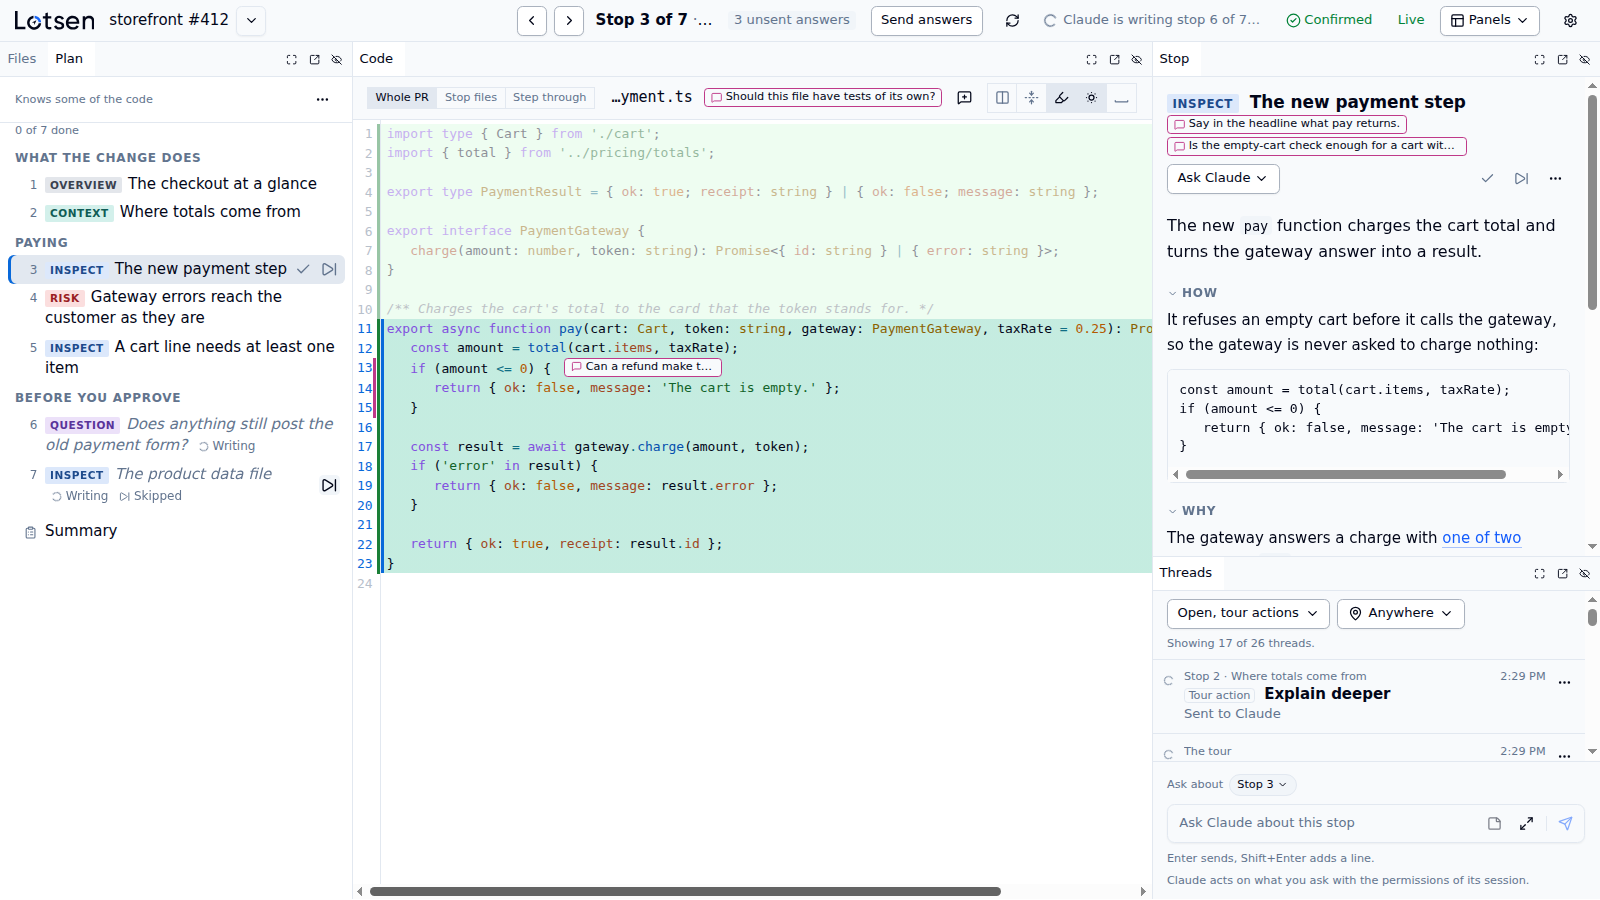
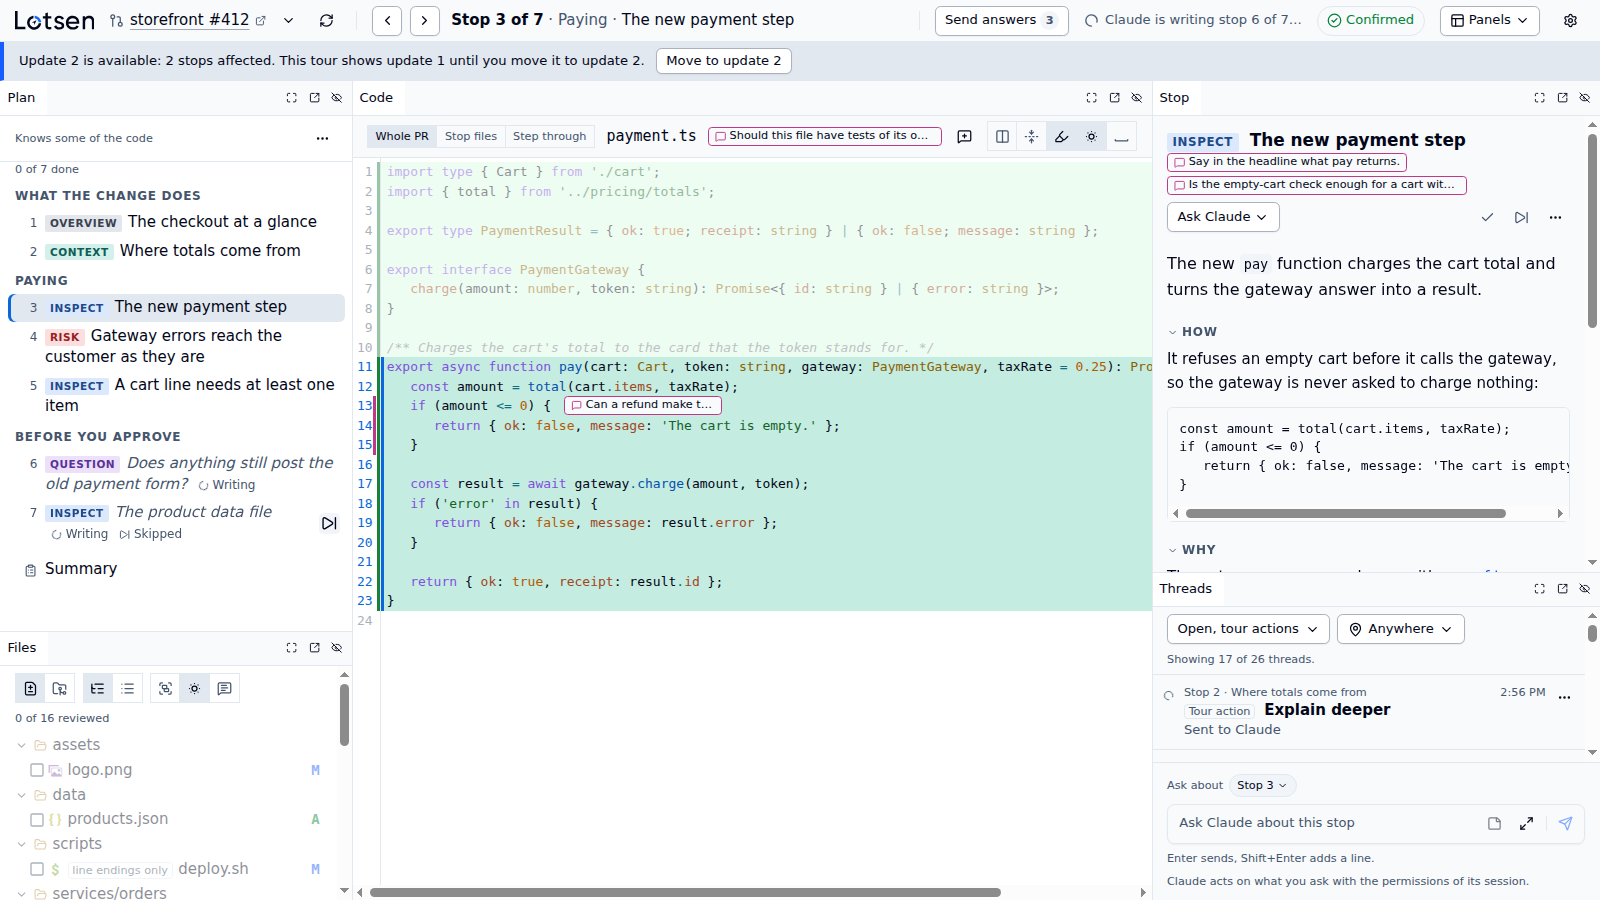
Release lotsen 0.3.0
Move the unreleased changes into the v0.3.0 section of the changelog and start lotsen@0.3.0 from the plugin. Retake the README's screenshots on the overhauled top bar, with the Files panel docked under the Plan panel.

Correct the docs that a pre-release audit found out of step with the code: git 2.46 in the README's requirements, a version-free npx example, the full third-party notices list, the release's tag order and the 1.0 milestone in the versioning doc, the three missing tools in the live test, and which tool calls need the pin and when threadDeleted arrives in the tour skill.

diff --git a/CHANGELOG.md b/CHANGELOG.md
@@ -4,6 +4,8 @@ The notable changes in each release of lotsen, newest first. Versions follow [se
 
 ## Unreleased
 
+## v0.3.0 - 2026-11-15
+
 ### Added
 
 - **Tours of GitHub pull requests.** Start a tour from any github.com URL of a pull request, such as its changed files. lotsen reads the pull request with your GitHub CLI sign-in, which `gh auth login` sets, also for a public repository. When the pull request's head changes, lotsen offers the new iteration, numbering the heads it sees from 1. lotsen shows a merged pull request as completed and a closed one as abandoned, and links mentions of issues and pull requests to GitHub. GitHub Enterprise Server and GHE.com are not supported.
@@ -16,7 +18,8 @@ The notable changes in each release of lotsen, newest first. Versions follow [se
 - **A tidier Settings panel.** The settings sit under Appearance, Tour, Threads and Storage. Color theme and Syntax colors are dropdowns that show each family's colors, Placement and Thread messages show a small picture of each choice, and a preview shows the chosen colors and font size on a few diff lines. Mixed threshold shows only while Placement is Mixed, and the panel's footer shows the lotsen version.
 - **A diff line with thread markers is as tall as any other line**, so its code sits level with its line number.
 - **A stop's checks are easier to read.** Each check sits in its own card under its question in bold, with a pill that says whether it needs an answer or how far its answer has come, and the Checks heading counts the answered checks. Claude's recommendation shows in Claude's colors, and folds once you answer the check. Fewer labels stand between the question and the suggestions, and the answer type menu is as large as the buttons beside it.
-- **The top bar's controls share one height and one look for each kind.** The tour switcher's chevron has no border, the Claude session state is a pill, and the pull request label shows its link with an underline and an external-link mark. Thin dividers split the bar into the tour, the stop, and Claude and the workspace. The tour takes only the width it needs, so the stop line shows more of the stop's title, and the update check sits beside the pull request label. When the stop line runs short of room, the chapter gives way before the stop's title, and "Skipped" stays. "Send answers" shows the unsent count inside the button, and a refused send shows its reason in a strip under the bar until you dismiss it. One status chip shows the Claude session, turns amber while the page connects or reconnects, and lists the session, the connection and Claude's current work on a click, so the bar no longer shows "Live" or "No Claude session is writing this tour". While a plan waits for your approval, the bar shows a "Review the plan" button that opens the Plan panel and moves the focus to "Approve plan". In a narrow window the bar gives way in a fixed order, down to 720px at every font size, so its controls stay in the window.
+- **The top bar's controls share one height and one look for each kind.** The tour switcher's chevron has no border, the Claude session state is a pill, and the pull request label shows its link with an underline and an external-link mark. Thin dividers split the bar into the tour, the stop, and Claude and the workspace. The tour takes only the width it needs, so the stop line shows more of the stop's title, and the update check sits beside the pull request label. When the stop line runs short of room, the chapter gives way before the stop's title, and "Skipped" stays. "Send answers" shows the unsent count inside the button, and a refused send shows its reason in a strip under the bar until you dismiss it. One status chip shows the Claude session, turns amber while the page connects or reconnects, and lists the session, the connection and Claude's current work on a click, so the bar no longer shows "Live" or "No Claude session is writing this tour". While a plan waits for your approval, the bar shows a "Review the plan" button that opens the Plan panel, brings a popped-out Plan panel's window forward where the browser allows it, and moves the focus to "Approve plan". In a narrow window the bar gives way in a fixed order, down to 720px at every font size, so its controls stay in the window.
+- **The keyboard focus is easier to see in the light theme.** A focused button's edge takes the primary color, so it stands out against every surface a button sits on, in every color theme.
 - **Gray text in the light theme is darker**, so small labels such as a thread's "Resolved" read clearly on their gray fill.
 - **Stops and diffs load faster, most of all on Windows, where each git process is slow.** lotsen keeps what git told it about a tour's commits in its git fact cache, so a stop that Claude writes again, a diff you open again and the list of changed files after pinning start no git process. The first stop that Claude writes on a pin starts fewer of them too.
 

diff --git a/README.md b/README.md
@@ -31,7 +31,7 @@ Everything stays on your machine. The UI runs on 127.0.0.1, Lotsen keeps its own
 ## Requirements
 
 - [Claude Code](https://code.claude.com/docs/en/overview), allowed to use channels. On a Team or Enterprise plan, your organization has to enable them with `channelsEnabled`.
-- git.
+- git 2.46 or newer.
 - [Node.js](https://nodejs.org/) 18 or later, with npm. Claude Code starts Lotsen through npx.
 - For Azure DevOps, the [Azure CLI](https://learn.microsoft.com/cli/azure/install-azure-cli), signed in with `az login` to an account that can read the pull request's repository.
 - For GitHub, the [GitHub CLI](https://cli.github.com/), signed in with `gh auth login` to an account that can read the pull request's repository. Lotsen needs the sign-in for a public repository too.
@@ -82,7 +82,7 @@ On GitHub, any page of the pull request works as its URL, such as its changed fi
 
 ## Commands
 
-Claude Code starts a background server when a session needs one, and it stops by itself once nothing uses it. These commands are for the times you want to step in. They need the global install from [Install](#install). Without it, run a command through npx with the plugin's version, such as `npx -y lotsen@0.2.0 open`, the form that Lotsen's errors in Claude Code name.
+Claude Code starts a background server when a session needs one, and it stops by itself once nothing uses it. These commands are for the times you want to step in. They need the global install from [Install](#install). Without it, run a command through npx with the plugin's version, such as `npx -y lotsen@<version> open`, with the version that Lotsen's errors in Claude Code name.
 
 | Command | What it does |
 |---|---|
@@ -126,6 +126,6 @@ Bug reports, ideas and pull requests are welcome: [`CONTRIBUTING.md`](CONTRIBUTI
 
 ## License
 
-Lotsen is licensed under the [Apache License, Version 2.0](LICENSE). The third-party notices are built into the executable, and Settings in the web UI links to them. The UI build writes them from the packages that it bundles, the Seti notices in [`ui/src/seti/`](ui/src/seti) and [`ui/third-party/notices.txt`](ui/third-party/notices.txt), which covers the .NET runtime and the NuGet packages.
+Lotsen is licensed under the [Apache License, Version 2.0](LICENSE). The third-party notices are built into the executable, and Settings in the web UI links to them. The UI build writes them from the packages that it bundles, the Seti notices in [`ui/src/seti/`](ui/src/seti) and [`ui/third-party/notices.txt`](ui/third-party/notices.txt), which covers the copied shadcn-svelte components, the Catppuccin and Gruvbox colors, the NuGet packages and the .NET runtime.
 
 Releases follow semantic versioning, as [`docs/versioning.md`](docs/versioning.md) describes, and [`CHANGELOG.md`](CHANGELOG.md) lists what each one changed. `docs/versioning.md` also shows how to check that a downloaded executable came from the release workflow.

diff --git a/docs/versioning.md b/docs/versioning.md
@@ -1,10 +1,10 @@
 # Versioning
 
-Lotsen uses [semantic versioning](https://semver.org/). The version stays below 1.0 until the public release.
+Lotsen uses [semantic versioning](https://semver.org/). The version stays below 1.0 until the 1.0 release.
 
 ## Where the version comes from
 
-A release is a git tag, `v<version>`, and npm packages of the version without its `v`. The release workflow takes the version as an input and builds with it. It publishes the npm packages once both builds pass and the maintainer approves the release, and creates the tag last, so a failed build or a rejected release leaves no tag.
+A release is a git tag, `v<version>`, and npm packages of the version without its `v`. The release workflow takes the version as an input and builds with it. It publishes the npm packages once both builds pass and the maintainer approves the release, and creates the tag only after the npm packages are published, so a failed build or a rejected release leaves no tag.
 
 The plugin starts lotsen through npx at an exact version, which `plugin/.mcp.json` names, such as `lotsen@0.1.0`. Before a release, commit the new version there. For a release without a suffix, also move the entries under `## Unreleased` in [`CHANGELOG.md`](../CHANGELOG.md) into a section `## v0.1.0 - <date>`, which becomes the GitHub release's notes. Push both to `main`. Then start the release from `main`, once CI has passed on that commit:
 
@@ -50,6 +50,6 @@ A change is breaking if it changes one of these in a way that existing users or 
 - The command line
 - The agent tools
 
-Before the MVP release, nothing is compatible by promise: stored tours, the state file and the HTTP API can change freely, with no migration.
+Before 1.0, nothing is compatible by promise: stored tours, the state file and the HTTP API can change freely, with no migration.
 
 From then on, a breaking change raises the minor version while the version is below 1.0, and the major version after that.

diff --git a/plugin/skills/tour/SKILL.md b/plugin/skills/tour/SKILL.md
@@ -98,7 +98,8 @@ Create a tour when `find_tours` returned no tours of the PR, or when the user ch
 
 The new tour's `pin.state` is `pinning`: lotsen reads the PR and clones its repository in the background, to pin the
 tour to the PR's merge base and head. A first clone of a large repository can take minutes. Don't wait for it. Go on
-gathering and planning; `set_plan` works in every pin state. Only `put_stop` needs the pin.
+gathering and planning; `set_plan` works in every pin state. `put_stop`, `write_synthesis` and any text with `ref:`
+links need the pin.
 
 ### Resume a tour in a new session
 
@@ -604,8 +605,8 @@ which the server checks. These tools never reach the reviewer's notes, which `re
 
 ### Threads that the reviewer deletes
 
-The reviewer can delete any thread in the UI, yours included. When the deleted thread was sent to you, lotsen sends
-this session one channel event with `event="threadDeleted"`, its `tourId` and `threadId`, and a `questionId` when a
+The reviewer can delete any thread in the UI, yours included. When the deleted thread is not an unsent note and this
+session holds the tour, lotsen sends this session one channel event with `event="threadDeleted"`, its `tourId` and `threadId`, and a `questionId` when a
 question in the thread still waited for your reply. lotsen canceled that question, so don't call `reply` for that
 question. Stop any work on the thread, and don't write to it again, because lotsen refuses every call on it. When the
 thread held a tour action or a decision that you carried out in part, leave the tour as it is, and tell the user in

diff --git a/docs/live-test.md b/docs/live-test.md
@@ -144,7 +144,7 @@ Check before you go on:
 - The startup screen says that messages from `server:lotsen` inject directly in this session.
 - `/mcp` lists `lotsen` as connected, with the tools `find_tours`, `create_tour`, `attach_tour`, `set_plan`,
   `put_stop`, `read_state`, `fetch_question`, `reply`, `ack`, `pin_tour`, `open_ui`, `start_thread`,
-  `add_thread_message`, `outdate_thread` and `delete_thread`.
+  `add_thread_message`, `outdate_thread`, `delete_thread`, `fetch_answers`, `read_summary` and `write_synthesis`.
 - `/lotsen:tour` is in the `/` menu.
 - Without a `lotsen serve`, `lotsen open` in another terminal opens the UI, so Claude Code started a background
   server. `<lotsen>/scripts/live-test.sh check` reports the server as running.
